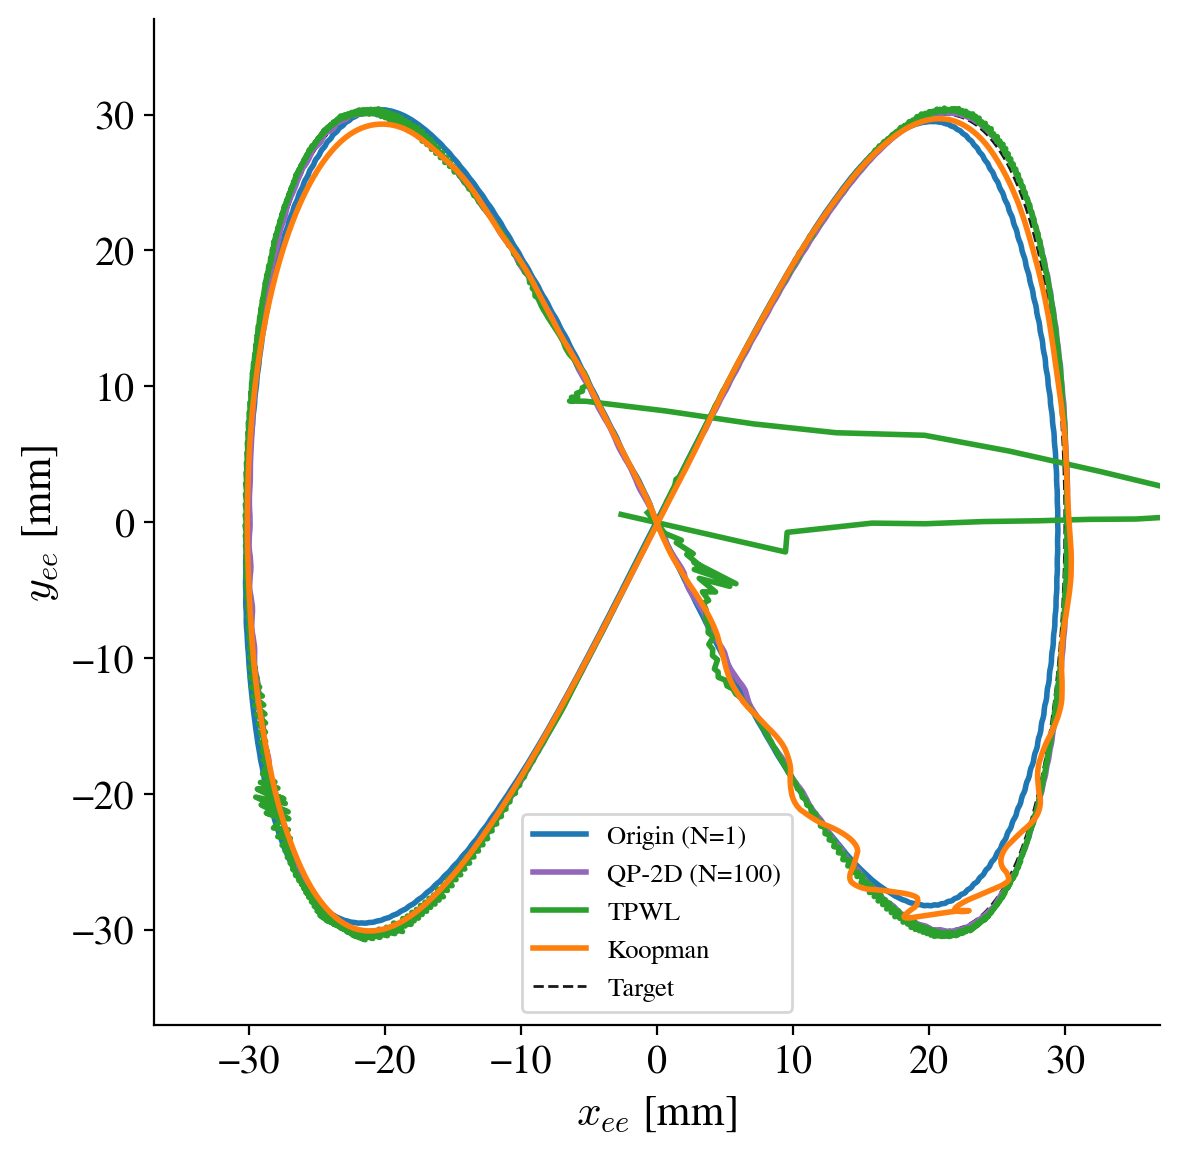
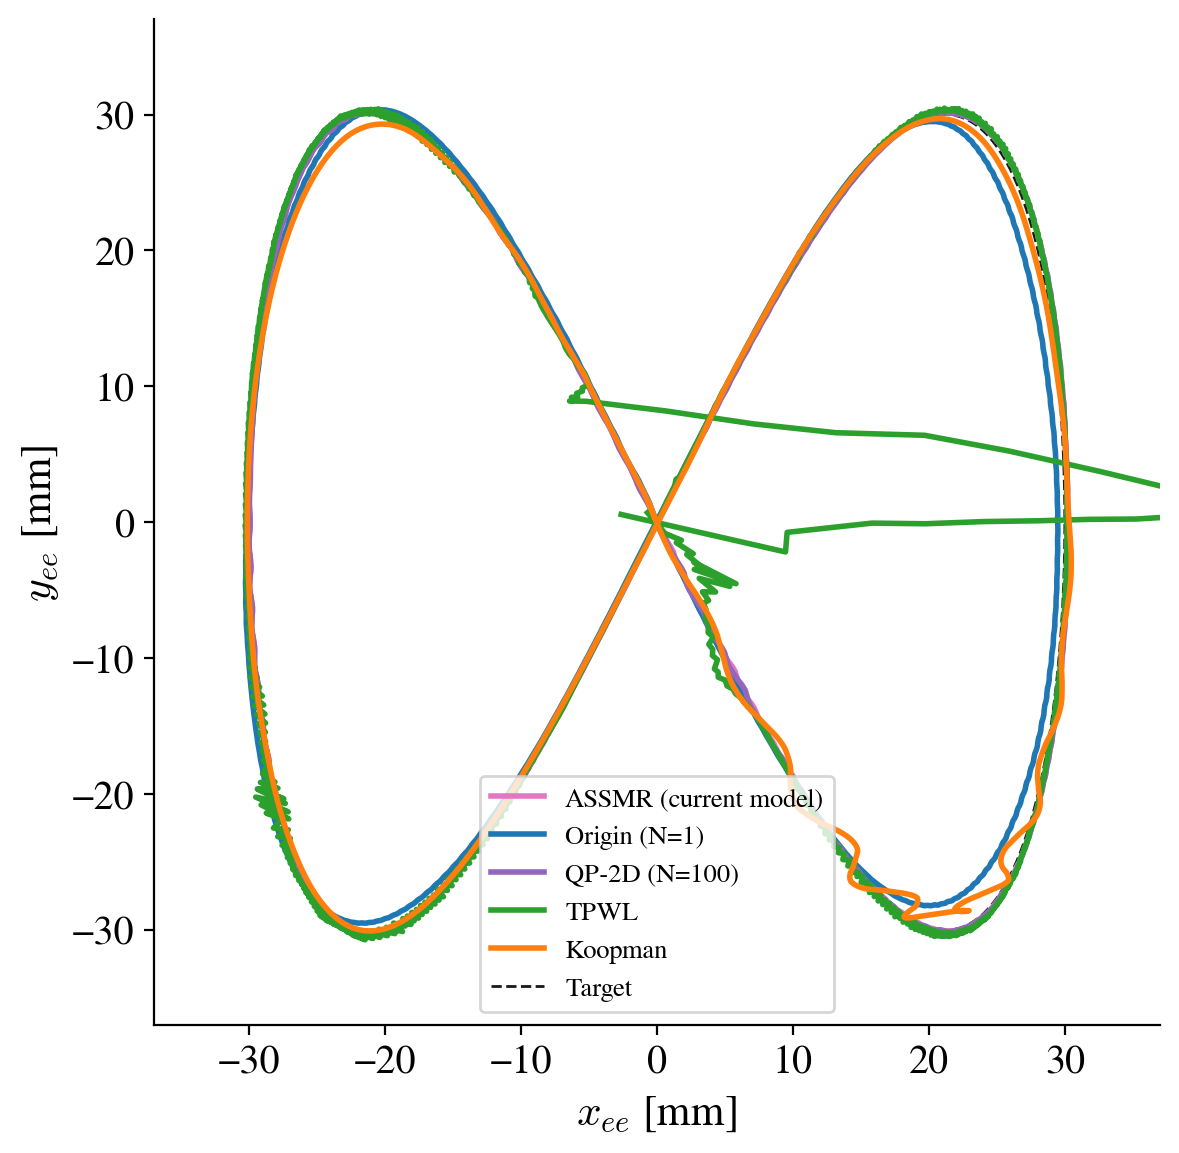
made sure that this branch still interpolates in physical coordinates

Changed region(s): [[0.3969, 0.6557, 0.7328, 0.8742]]

diff --git a/sofacontrol/SSM/adiabatic_ssm.py b/sofacontrol/SSM/adiabatic_ssm.py
@@ -11,7 +11,7 @@ import pickle
 from .interpolators import InterpolatorFactory
 
 
-INTERPOLATION_METHOD = "idw" # "natural_neighbor" # "linear", "ct", "nn", "tps", "rbf", "idw", "krg", "qp"
+INTERPOLATION_METHOD = "qp" # "natural_neighbor" # "linear", "ct", "nn", "tps", "rbf", "idw", "krg", "qp"
 ORIGIN_IDX = 0
 
 DISCR_DICT = {'fe': 'forward Euler', 'be': 'implicit Euler', 'bil': 'bilinear transform', 'zoh': 'zero-order hold'}
@@ -33,10 +33,10 @@ class AdiabaticSSM:
         self.params = params
 
         self.adiabatic = True
-        # if INTERPOLATION_METHOD in ["idw", "modified_idw"]: # "krg", "rbf", "tps", "nn"]:
-        #     self.interp_3d = True
-        # else:
-        #     self.interp_3d = False
+        if INTERPOLATION_METHOD in ["idw", "modified_idw"]: # "krg", "rbf", "tps", "nn"]:
+            self.interp_3d = True
+        else:
+            self.interp_3d = False
         
         # Model dimensions
         self.state_dim = self.params['state_dim']
@@ -83,11 +83,11 @@ class AdiabaticSSM:
         if self.v_coeff[0] is not None:
             self.coeff_dict['V'] = self.v_coeff
         
-        # if self.interp_3d:
-        #     self.interpolator = InterpolatorFactory(INTERPOLATION_METHOD, [q[:3] for q in self.q_bar], self.coeff_dict).get_interpolator()
-        # else:
-        #     self.interpolator = InterpolatorFactory(INTERPOLATION_METHOD, [q[:2] for q in self.q_bar], self.coeff_dict).get_interpolator()
-        self.interpolator = InterpolatorFactory(INTERPOLATION_METHOD, [self.V[0].T @ np.tile(q, 5) for q in self.q_bar], self.coeff_dict).get_interpolator()
+        if self.interp_3d:
+            self.interpolator = InterpolatorFactory(INTERPOLATION_METHOD, [q[:3] for q in self.q_bar], self.coeff_dict).get_interpolator()
+        else:
+            self.interpolator = InterpolatorFactory(INTERPOLATION_METHOD, [q[:2] for q in self.q_bar], self.coeff_dict).get_interpolator()
+        # self.interpolator = InterpolatorFactory(INTERPOLATION_METHOD, [self.V[0].T @ np.tile(q, 5) for q in self.q_bar], self.coeff_dict).get_interpolator()
 
         # Manifold parametrization
         self.W_map = self.reduced_to_output
@@ -230,11 +230,11 @@ class AdiabaticSSM:
         if not jnp.allclose(y, self.last_observation_y):
             with open("/home/jonas/Projects/stanford/soft-robot-control/examples/trunk/y_last_obs.pkl", "wb") as f:
                 pickle.dump(y, f)
-            # if self.interp_3d:
-            #     xy_z = y[-3:]
-            # else:
-            #     xy_z = y[-3:-1]
-            xy_z = jnp.dot(jnp.transpose(V), y - y_bar)
+            if self.interp_3d:
+                xy_z = y[-3:]
+            else:
+                xy_z = y[-3:-1]
+            # xy_z = jnp.dot(jnp.transpose(V), y - y_bar)
             self.y_bar_current = np.tile(self.interpolator.transform(xy_z, 'q_bar'), 5) # np.concatenate([self.interpolator.transform(xy_z, 'q_bar'), np.zeros(3)]) # 
             self.u_bar_current = self.interpolator.transform(xy_z, 'u_bar')
             self.B_r_current = self.interpolator.transform(xy_z, 'B_r')

diff --git a/sofacontrol/scp/ros.py b/sofacontrol/scp/ros.py
@@ -115,11 +115,11 @@ class GuSTOSolverNode(Node):
             with open("/home/jonas/Projects/stanford/soft-robot-control/examples/trunk/y_last_obs.pkl", "rb") as f:
                 y = pickle.load(f)
             self.model.dyn_sys.last_observation_y = y
-            # if self.model.dyn_sys.interp_3d:
-            #     xy_z = y[-3:]
-            # else:
-            #     xy_z = y[-3:-1]
-            xy_z = x0
+            if self.model.dyn_sys.interp_3d:
+                xy_z = y[-3:]
+            else:
+                xy_z = y[-3:-1]
+            # xy_z = x0
             self.model.dyn_sys.y_bar_current = np.tile(self.model.dyn_sys.interpolator.transform(xy_z, 'q_bar'), 5) # np.concatenate([self.model.dyn_sys.interpolator.transform(xy_z, 'q_bar'), np.zeros(3)]) # 
             self.model.dyn_sys.u_bar_current = self.model.dyn_sys.interpolator.transform(xy_z, 'u_bar')
             self.model.dyn_sys.B_r_current = self.model.dyn_sys.interpolator.transform(xy_z, 'B_r')

diff --git a/examples/trunk/trunk_adiabaticSSM.py b/examples/trunk/trunk_adiabaticSSM.py
@@ -26,11 +26,12 @@ N_NODES = 709
 # Set directory for SSM Models
 PATH_TO_MODEL = "/media/jonas/Backup Plus/jonas_soft_robot_data/trunk_adiabatic_10ms_N=100_sparsity=0.95" # 33_handcrafted" # 9" # 
 MODEL_NAMES = [name for name in sorted(listdir(PATH_TO_MODEL)) if isdir(join(PATH_TO_MODEL, name))]
-if exists(join(PATH_TO_MODEL, "use_models.pkl")):
-    with open(join(PATH_TO_MODEL, "use_models.pkl"), "rb") as f:
-        USE_MODELS = pickle.load(f)
-else:
-    USE_MODELS = list(range(len(MODEL_NAMES)))
+# if exists(join(PATH_TO_MODEL, "use_models.pkl")):
+#     with open(join(PATH_TO_MODEL, "use_models.pkl"), "rb") as f:
+#         USE_MODELS = pickle.load(f)
+# else:
+#     raise RuntimeError("No use_models.pkl file found in model directory")
+USE_MODELS = list(range(len(MODEL_NAMES)))
 MODEL_NAMES = [MODEL_NAMES[i] for i in USE_MODELS]
 print("Using models: ", MODEL_NAMES)
 

diff --git a/problem_specification.py b/problem_specification.py
@@ -60,12 +60,12 @@
 # problem = trunk_SSM.run_scp
 
 # ADIABATIC SSM
-# from examples.trunk import trunk_adiabaticSSM
-# problem = trunk_adiabaticSSM.run_scp
+from examples.trunk import trunk_adiabaticSSM
+problem = trunk_adiabaticSSM.run_scp
 
 # TPWL
-from examples.trunk import trunk_tpwl
-# problem = trunk_tpwl.collect_POD_data
-# problem = trunk_tpwl.collect_TPWL_data
-problem = trunk_tpwl.run_scp
-# problem = trunk_tpwl.run_ilqr
+# from examples.trunk import trunk_tpwl
+# # problem = trunk_tpwl.collect_POD_data
+# # problem = trunk_tpwl.collect_TPWL_data
+# problem = trunk_tpwl.run_scp
+# # problem = trunk_tpwl.run_ilqr
